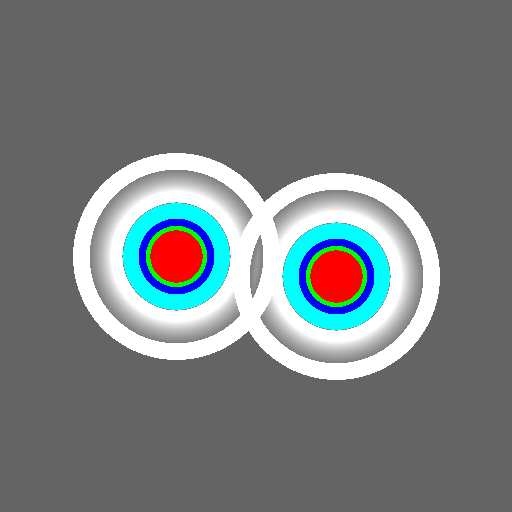
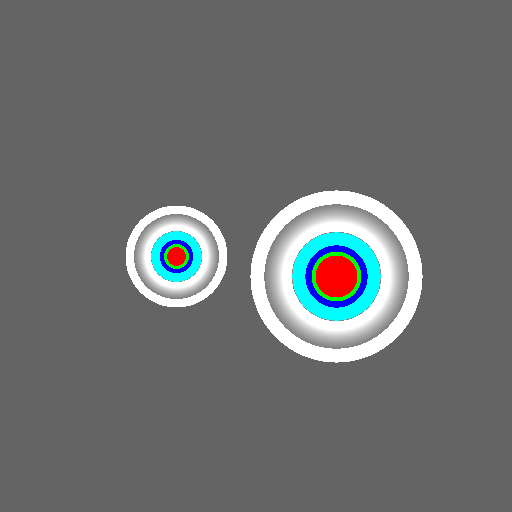
Some improvements

Changed region(s): [[0.125, 0.2812, 0.875, 0.75]]

diff --git a/main.cpp b/main.cpp
@@ -21,7 +21,7 @@ int main(int argc, char** argv)
     printIntro();
     if (argc > 1)
     {
-        std::cout << "Starting GUI interface using OpenGL..." << std::endl;
+        std::cout << "Starting graphical interface..." << std::endl;
         guiInterface(argc, argv);
     }
     else
@@ -33,6 +33,11 @@ int main(int argc, char** argv)
 }
 
 void guiInterface(int argc, char** argv)
+{
+    std::cout << "NOT IMPLEMENTED YET!. USE TEXT INTERFACE." << std::endl;
+}
+
+void textInterface()
 {
     try
     {
@@ -96,15 +101,4 @@ void guiInterface(int argc, char** argv)
     {
         std::cout << "Exception was thrown: " << str << std::endl;
     }
-}
-
-void textInterface()
-{
-    rt::core::Point p(1.0, 2.0, 3.0);
-    std::cout << p << std::endl;
-    rt::core::Vector v(1.0, 2.0, 3.0);
-    std::cout << v << std::endl;
-    rt::shape::Sphere s();
-    rt::core::Vector z = v + p;
-    std::cout << z << std::endl;
 }

diff --git a/src/scene/Loader.cpp b/src/scene/Loader.cpp
@@ -22,6 +22,9 @@ Scene Loader::load(std::string filename)
     sceneNode = getOrDie(root, "scene");
     scene.setName(sceneNode.get("name", "Name not set").asString());
 
+    std::cout << "Scene name: "<< scene.getName() << std::endl;
+
+
     Json::Value objectsNode;
     objectsNode = getOrDie(sceneNode, "objects");
 
@@ -70,8 +73,10 @@ void Loader::loadSphere(Scene& scene, Json::Value& sphereNode)
 
     core::Point pos = loadPosition(sphereNode);
 
+    double radius = getOrDie(sphereNode, "radius").asDouble();
+
     object->setPosition(pos);
-    object->setRadius(180.0f);
+    object->setRadius(radius);
 
     scene.addObject(object);
 }
